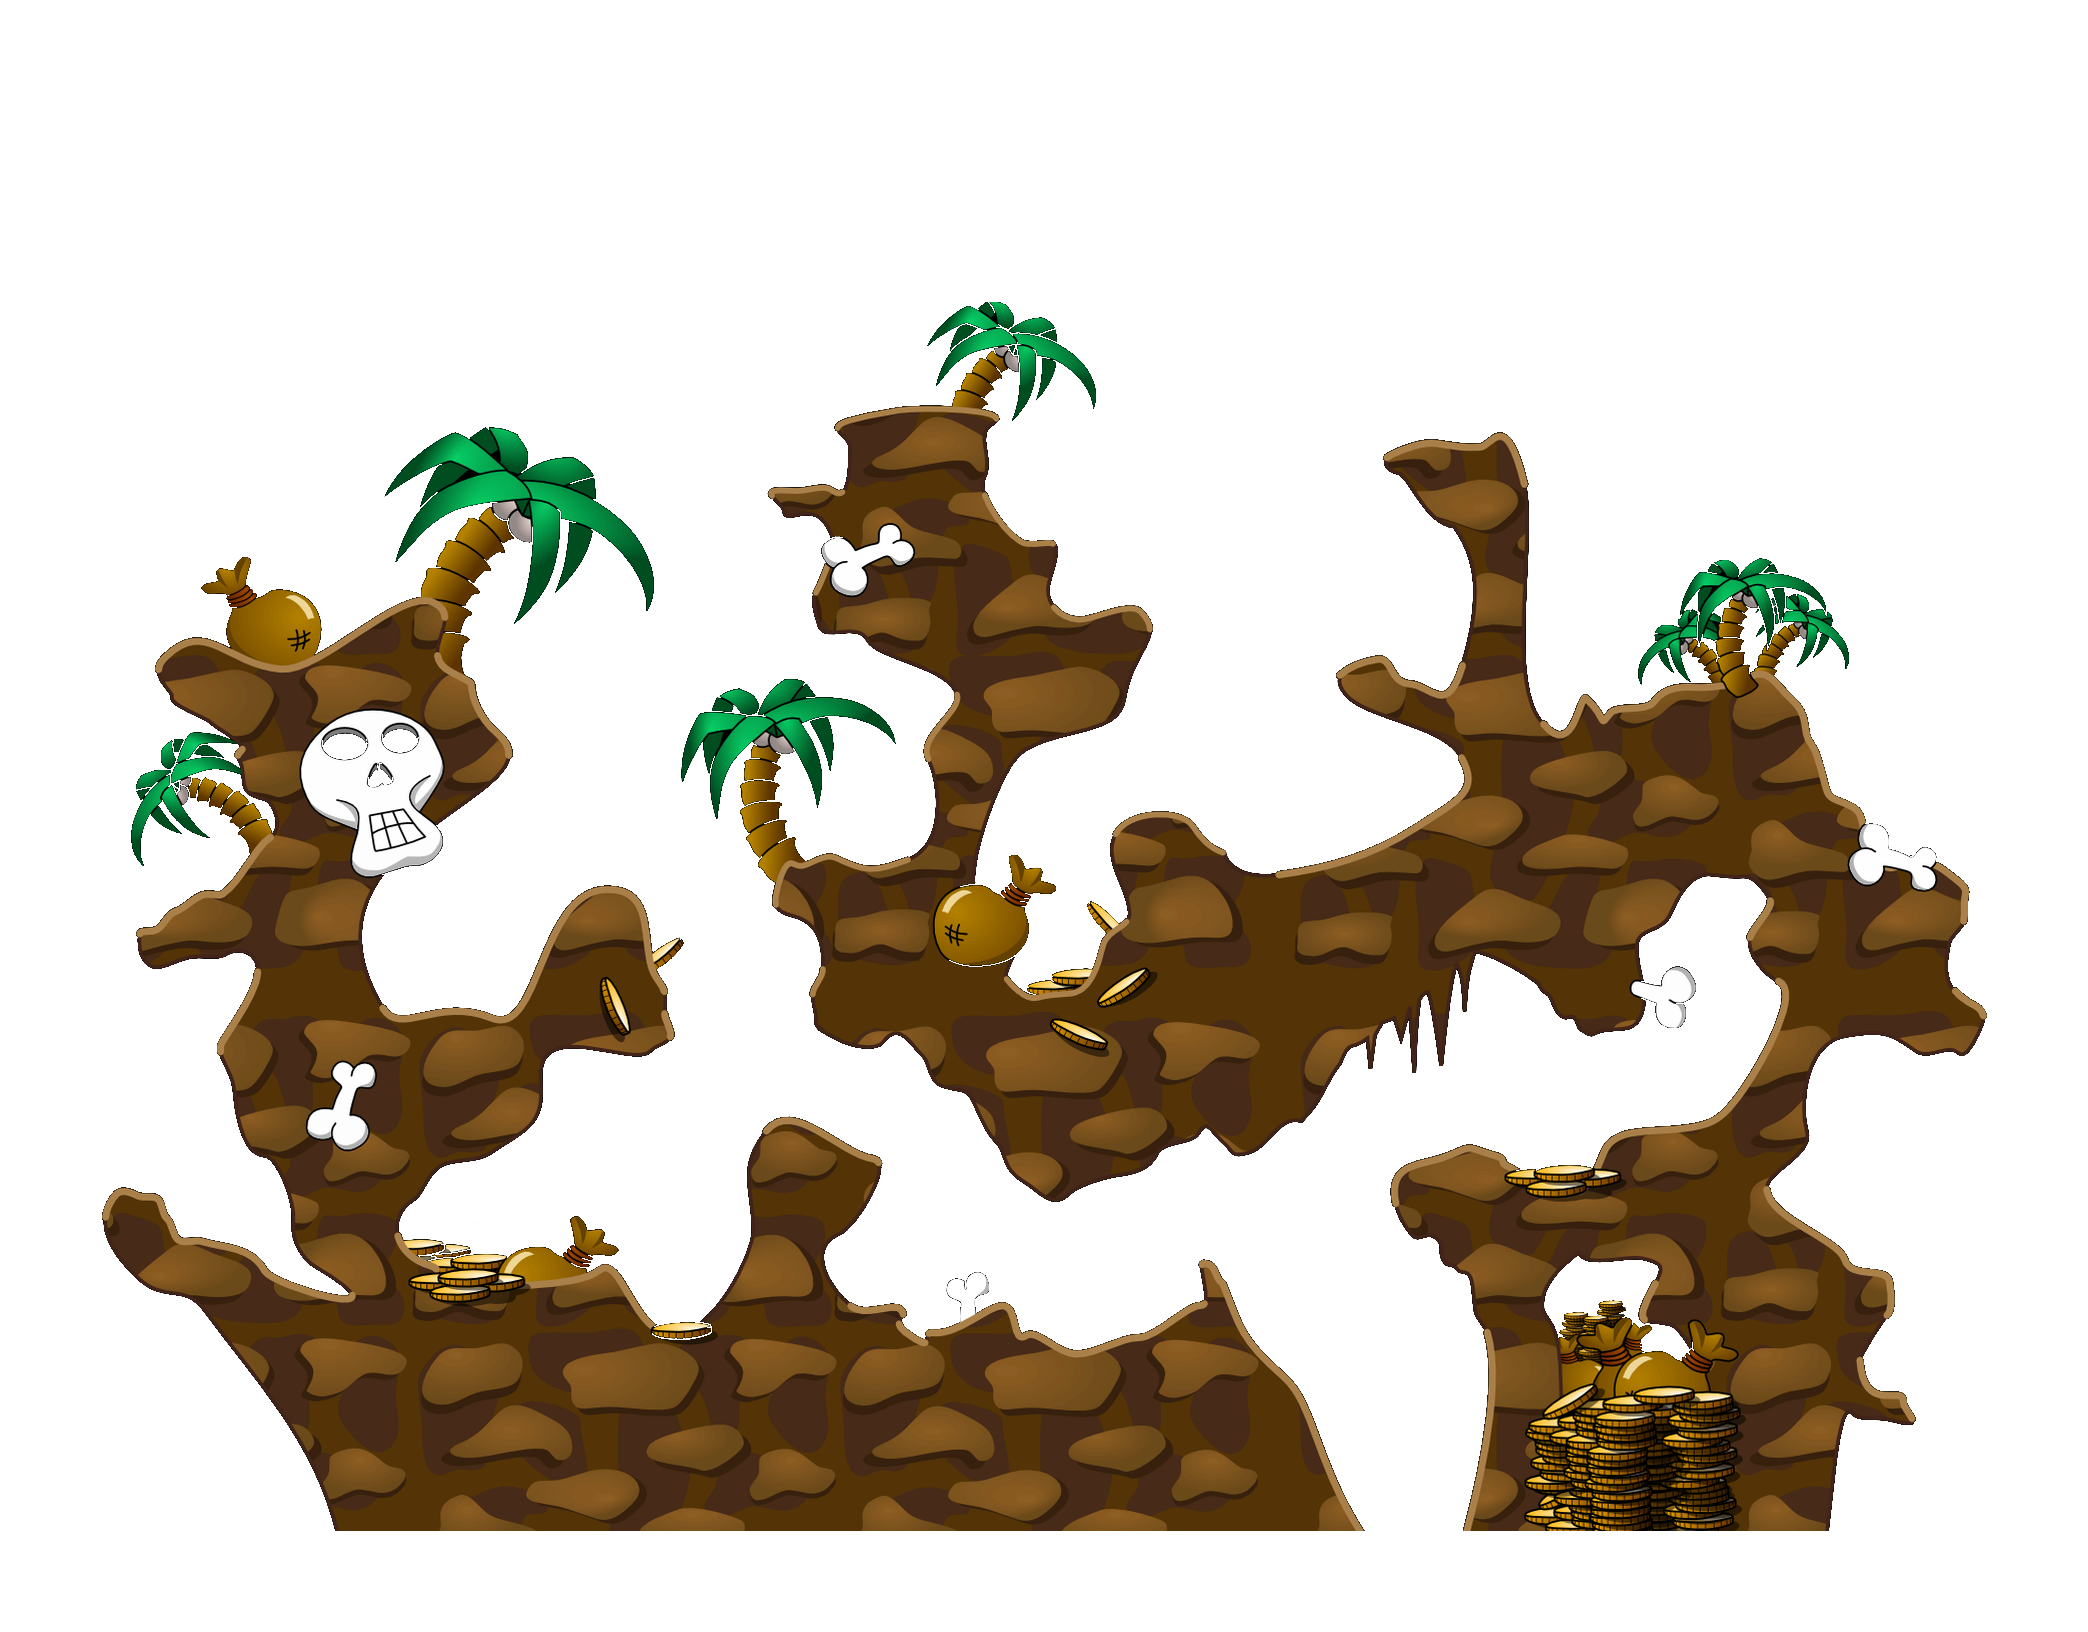
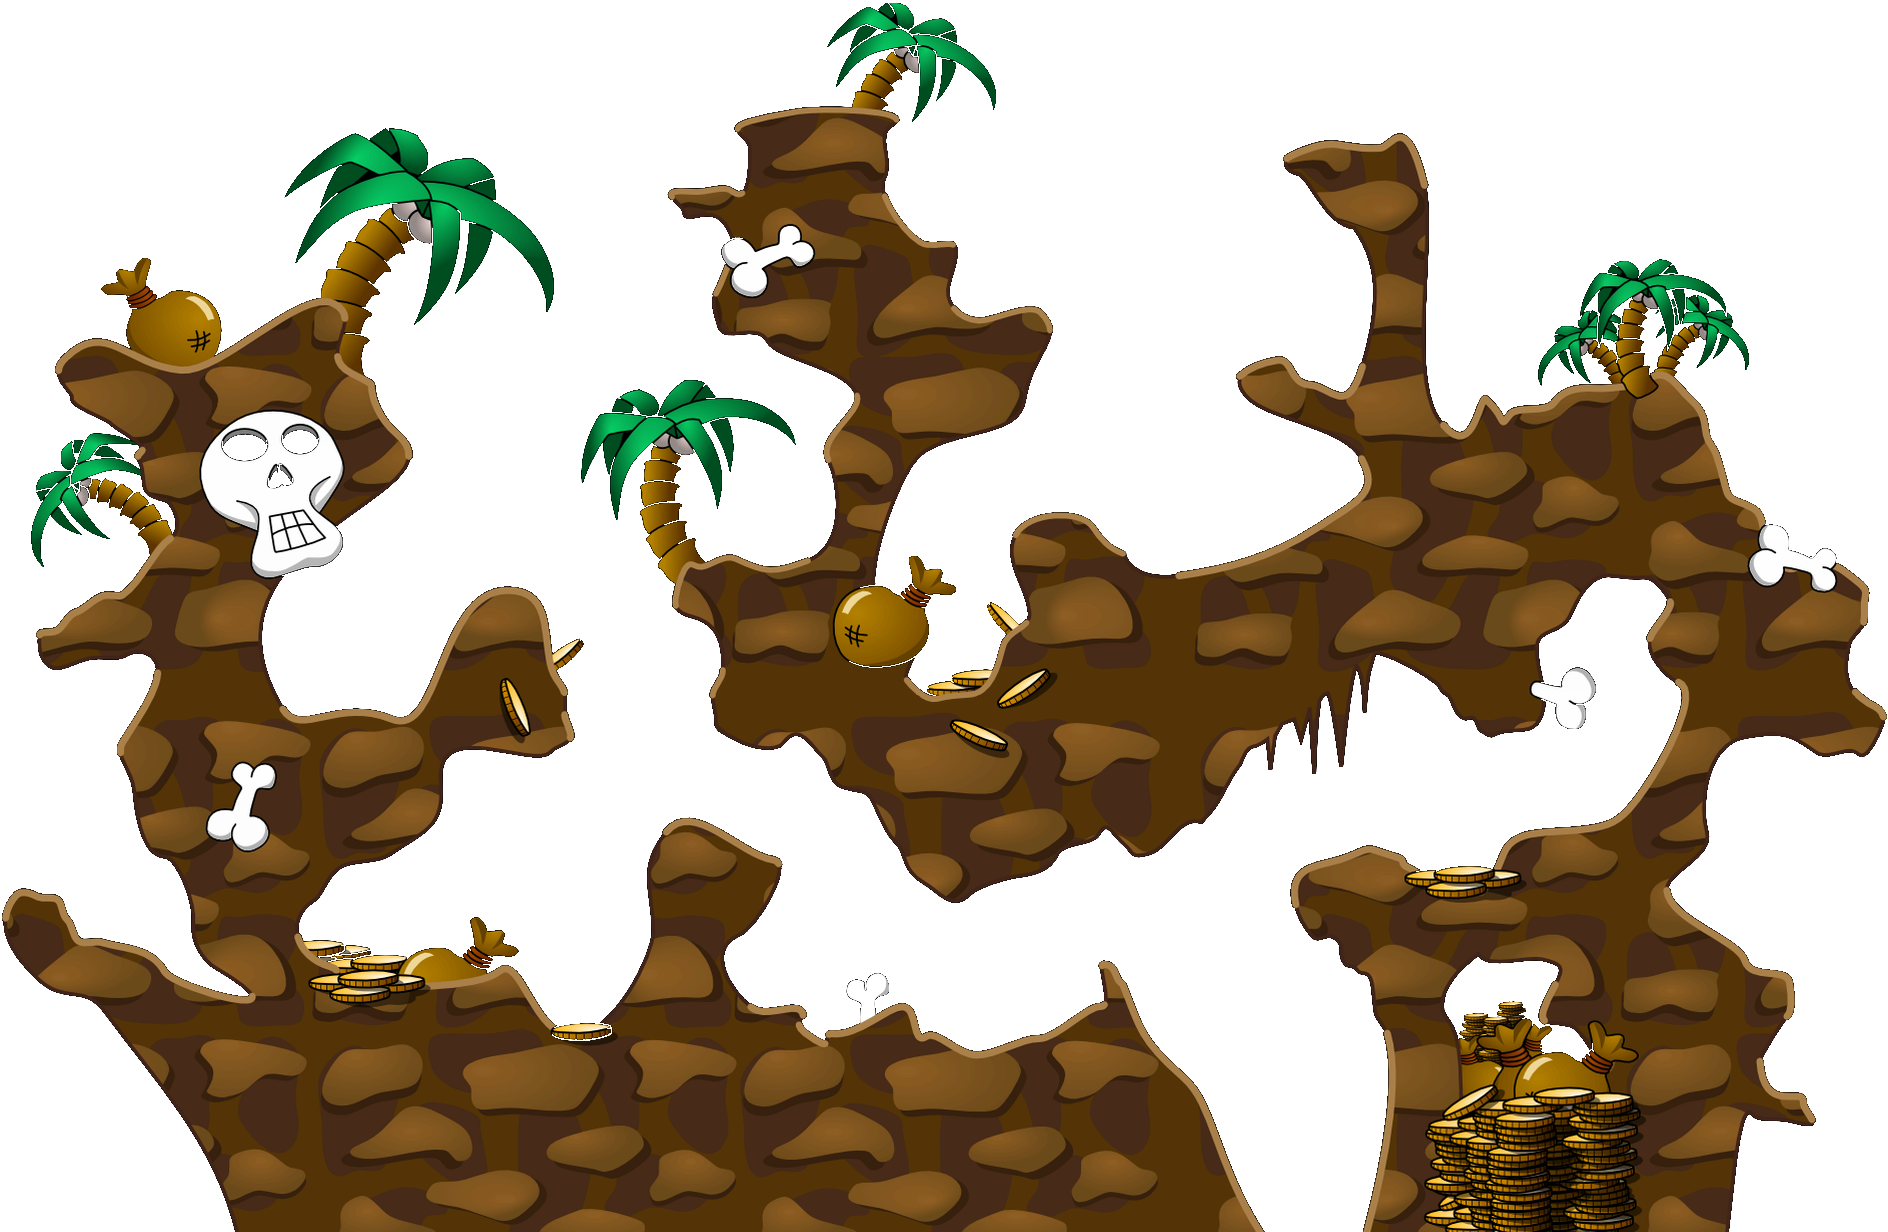
Trying out the new viewport/map system

diff --git a/src/Terrain.ts b/src/Terrain.ts
@@ -68,12 +68,12 @@ class Terrain
 
     getWidth()
     {
-       return this.bufferCanvas.width;    
+       return this.boundary.worldWidth;    
     }
 
      getHeight()
     {
-       return this.bufferCanvas.height;    
+         return this.boundary.worldHeight;
     }
 
     // This setup physical bodies from image data 
@@ -244,15 +244,32 @@ class Terrain
 
         // Here we draw an off screen buffer canvas onto our on screen one
         // this is more effeicent then drawing a pixel buffer onto the canvas
+        var y = GameInstance.camera.getY();
+        var x = GameInstance.camera.getX();
+        var w = this.drawingCanvas.width;
+        var h = this.drawingCanvas.height;
+
+        if ( y + this.drawingCanvas.height > this.bufferCanvas.height)
+        {
+            var diff = (y + this.drawingCanvas.height)-this.bufferCanvas.height;
+            h -= diff;
+        }
+
+        if ( x + this.drawingCanvas.width > this.bufferCanvas.width)
+        {
+            var diff = (x + this.drawingCanvas.width)-this.bufferCanvas.width;
+            w -= diff;
+        }
+
         ctx.drawImage(this.bufferCanvas, 
-            GameInstance.camera.getX(),
-            GameInstance.camera.getY(),
-            this.drawingCanvas.width,
-            this.drawingCanvas.height,
+            x,
+            y,
+            w,
+            h,
              0, 
             -5,
-            this.drawingCanvas.width,
-            this.drawingCanvas.height
+            w,
+            h
 
             
             );

diff --git a/src/Maps.ts b/src/Maps.ts
@@ -38,7 +38,7 @@ module Maps
 {
     export var priates = {
         terrainImage: "level2",
-        spawnPionts: [{"x":1190.1049129056307,"y":685.3893677086331},{"x":737.1049129056307,"y":1852.389367708633},{"x":1761.1049129056307,"y":1944.389367708633},{"x":1948.1049129056307,"y":1256.389367708633},{"x":2245.104912905631,"y":616.389367708633},{"x":1525.1049129056307,"y":765.389367708633},{"x":1117.1049129056307,"y":1007.389367708633},{"x":2516.104912905631,"y":1407.389367708633}],
+        spawnPionts: [{"x":1544.9062323019293,"y":1566.0332014302426},{"x":1156.9062323019293,"y":1250.0332014302426},{"x":655.9062323019293,"y":1425.0332014302426},{"x":519.9062323019293,"y":1074.0332014302426},{"x":1023.9062323019293,"y":582.0332014302427},{"x":1238.9062323019293,"y":162.03320143024268},{"x":2024.9062323019293,"y":220.03320143024268},{"x":1822.9062323019293,"y":854.0332014302427}] ,
         backgroundGraidentCss: "background: -webkit-linear-gradient(top,  #242a4a 0%,#201610 100%);"
     }
 }

diff --git a/src/system/Camera.ts b/src/system/Camera.ts
@@ -16,12 +16,14 @@ class Camera
     levelHeight;
     vpWidth;
     vpHeight;
+    vpX;
+    vpY;
 
     panPosition;
     panSpeed;
     toPanOrNotToPan;
 
-    constructor (levelWidth, levelHeight, vpWidth, vpHeight)
+    constructor (levelWidth, levelHeight, vpWidth, vpHeight, vpX = -500, vpY = -200)
     {
         this.levelWidth = levelWidth;
         this.levelHeight = levelHeight;
@@ -29,8 +31,8 @@ class Camera
         this.vpWidth = vpWidth;
         this.vpHeight = vpHeight;
 
-        this.position = new b2Vec2(0, 0);
-        this.panPosition = new b2Vec2(0, 0);
+        this.position = new b2Vec2(vpX, vpY);
+        this.panPosition = new b2Vec2(vpX, vpY);
 
         this.panSpeed = 6.1;
         this.toPanOrNotToPan = false;

diff --git a/src/weapons/Drill.ts b/src/weapons/Drill.ts
@@ -32,8 +32,8 @@ class Drill extends BaseWeapon
             Sprites.worms.drilling //animation fro worm taking out drill
         );
 
-        this.timeBetweenExploisionsTimer = new Timer(500);
-        this.useDurationTimer = new Timer(7000);
+        this.timeBetweenExploisionsTimer = new Timer(200);
+        this.useDurationTimer = new Timer(3500);
 
         // No requirement for crosshairs aiming
         this.requiresAiming = false;

diff --git a/css/custom.css b/css/custom.css
@@ -178,7 +178,7 @@ kbd {
     position: absolute;
     left: 50%;
     bottom: 1%;
-    width: 350px;
+    width: 150px;
     z-index: 1;
     margin-left: -200px;
 }
@@ -203,7 +203,6 @@ kbd {
 
     .healthMenu span.health {
         position: absolute;
-        width: 100%;
         height: 15px;
     }
 

diff --git a/src/Worm.ts b/src/Worm.ts
@@ -211,7 +211,6 @@ class Worm extends Sprite
     {
         if (impulse.normalImpulses[0] > 7)
         {
-            console.log(impulse.normalImpulses[0]);
             var damage = Math.round(impulse.normalImpulses[0])/2;
 
             if (damage > 10)

diff --git a/src/TerrainBoundary.ts b/src/TerrainBoundary.ts
@@ -18,6 +18,9 @@ class TerrainBoundary
     
     constructor (worldWidth,worldHeight)
     {
+        worldWidth *= 2;
+        worldHeight *= 2;
+
         this.worldWidth = worldWidth;
         this.worldHeight = worldHeight;
 
